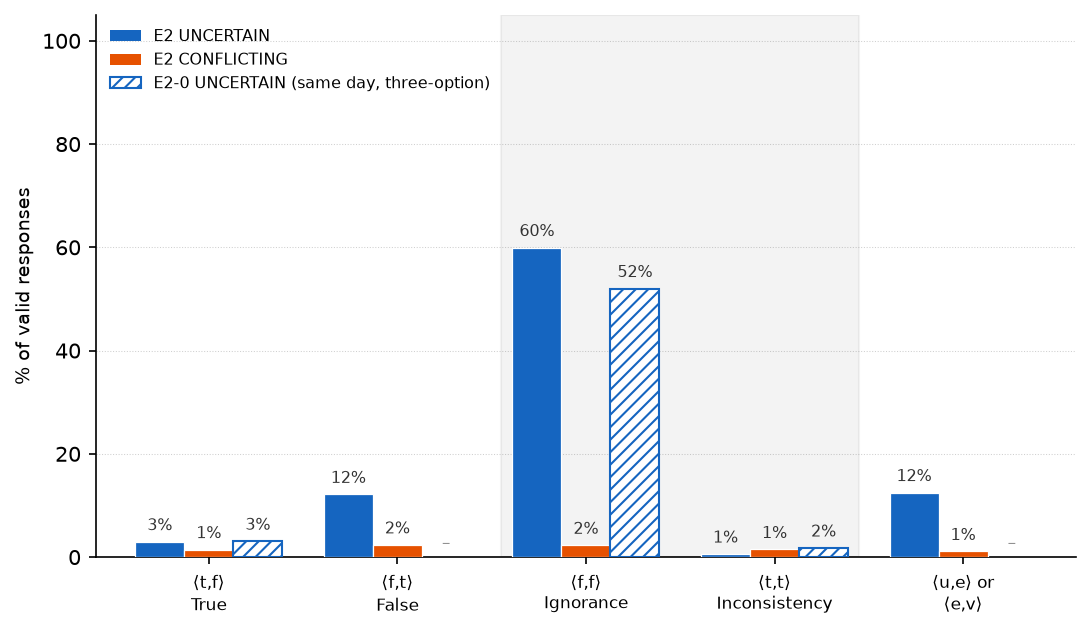
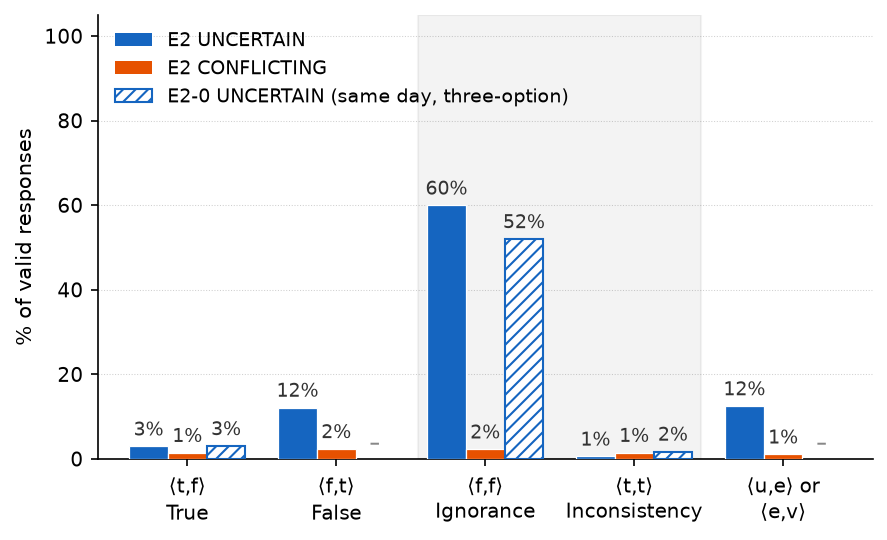
F-3' figure and LNCS fragments: size for LNCS text width; math-mode intervals; column spacing
make_f3prime_figure.py: figure sized 6.0 x 3.7 in with 9-10pt labels so it reads at the LNCS
text width (data and audit JSON unchanged). emit_revision_tables.py: intervals in the paired
rows of the compact E1 table are set in math mode (proper minus sign); explicit column
separation in the E1 and transition fragments.

diff --git a/analysis/emit_revision_tables.py b/analysis/emit_revision_tables.py
@@ -201,7 +201,7 @@ def lncs_e1_persistence() -> None:
         r = rates.get(f"{arm}|{cond}|pooled")
         return "--" if r is None or not r["ci95"] else f"[{r['ci95'][0]:.3f}, {r['ci95'][1]:.3f}]"
 
-    L = [r"\begin{tabular}{ll rrr}", r"\toprule",
+    L = [r"\begin{tabular}{l@{\quad}l@{\qquad}r@{\quad}r@{\quad}r}", r"\toprule",
          r"Original value & Scope & E1-0 & E1-a & E1-b \\", r"\midrule"]
     for cond, lab in (("treatment", TT), ("control_tf", TF), ("control_ff", FF)):
         L.append(f"{lab} & Pooled & " + " & ".join(cell(a, cond, "pooled") for a in arms) + r" \\")
@@ -211,8 +211,8 @@ def lncs_e1_persistence() -> None:
                 L.append(f" & {m} & " + " & ".join(cell(a, cond, m) for a in arms) + r" \\")
         L.append(r"\midrule")
     p1 = e1["P1_E1-0_minus_E1-a_treatment"]["pooled"]; ab = e1["E1-a_minus_E1-b_treatment"]["pooled"]
-    L.append(rf"\multicolumn{{5}}{{l}}{{Paired on {TT} items: E1-0 $-$ E1-a $= {p1['diff']:+.3f}$ {ci(p1['ci95'])} ($n={p1['n_paired']}$)}} \\")
-    L.append(rf"\multicolumn{{5}}{{l}}{{\phantom{{Paired on {TT} items: }}E1-a $-$ E1-b $= {ab['diff']:+.3f}$ {ci(ab['ci95'])} ($n={ab['n_paired']}$)}} \\")
+    L.append(rf"\multicolumn{{5}}{{l}}{{Paired on {TT} items: E1-0 $-$ E1-a $= {p1['diff']:+.3f}$ ${ci(p1['ci95'])}$ ($n={p1['n_paired']}$)}} \\")
+    L.append(rf"\multicolumn{{5}}{{l}}{{\phantom{{Paired on {TT} items: }}E1-a $-$ E1-b $= {ab['diff']:+.3f}$ ${ci(ab['ci95'])}$ ($n={ab['n_paired']}$)}} \\")
     L += [r"\bottomrule", r"\end{tabular}"]
     write_fragment("e1_persistence_tabular.tex", L)
 
@@ -221,7 +221,7 @@ def lncs_transition() -> None:
     """T-TM: where base <t,f> assertions go under box, per model and pooled (percent of row)."""
     tm = json.loads((D / "T-TM_transition_matrix.json").read_text())
     e_cells = ["<t,e>", "<e,t>", "<e,f>", "<f,e>", "<e,e>"]
-    L = [r"\begin{tabular}{l r rrrrr}", r"\toprule",
+    L = [r"\begin{tabular}{l@{\quad}r@{\qquad}r@{\quad}r@{\quad}r@{\quad}r@{\quad}r}", r"\toprule",
          rf"Model & $n$ & {TF} & {FF} & {TT} & {FT} & $\mathfrak{{e}}$-bearing \\", r"\midrule"]
 
     def row(label, d):

diff --git a/analysis/make_f3prime_figure.py b/analysis/make_f3prime_figure.py
@@ -134,7 +134,7 @@ def main() -> None:
     x = np.arange(len(TV_GROUPS))
     w = 0.26
     OUT.parent.mkdir(parents=True, exist_ok=True)
-    fig, ax = plt.subplots(figsize=(7.4, 4.3))
+    fig, ax = plt.subplots(figsize=(6.0, 3.7))   # LNCS text width is ~4.8in
     fig.patch.set_facecolor("white")
 
     style = {"uncertain": dict(color=C_UNCERTAIN),
@@ -146,17 +146,18 @@ def main() -> None:
         for xi, v, g in zip(xs, vals, TV_GROUPS):
             if v is None:
                 if key == "e2-0_uncertain":
-                    ax.text(xi, 1.0, "–", ha="center", va="bottom", fontsize=8, color="#888888")
+                    ax.text(xi, 1.0, "–", ha="center", va="bottom", fontsize=10, color="#888888")
                 continue
             kw = dict(style[key])
             if key != "e2-0_uncertain":
                 kw.update(edgecolor="white", linewidth=0.6)
             ax.bar(xi, v, width=w, zorder=3, **kw)
-            ax.text(xi, v + 1.5, f"{v:.0f}%", ha="center", va="bottom", fontsize=7.5, color=INK)
+            ax.text(xi, v + 1.5, f"{v:.0f}%", ha="center", va="bottom", fontsize=9, color=INK)
 
     ax.set_xticks(x)
-    ax.set_xticklabels([TV_LABELS[g] for g in TV_GROUPS], fontsize=8, linespacing=1.3)
-    ax.set_ylabel("% of valid responses", fontsize=9)
+    ax.set_xticklabels([TV_LABELS[g] for g in TV_GROUPS], fontsize=9.5, linespacing=1.3)
+    ax.tick_params(axis="y", labelsize=9.5)
+    ax.set_ylabel("% of valid responses", fontsize=10)
     ax.set_ylim(0, 105)
     ax.set_xlim(-0.6, len(TV_GROUPS) - 0.4)
     ax.spines["top"].set_visible(False)
@@ -169,7 +170,7 @@ def main() -> None:
     handles = [Patch(facecolor=C_UNCERTAIN, label=SERIES[0][0]),
                Patch(facecolor=C_CONFLICTING, label=SERIES[1][0]),
                Patch(facecolor="white", edgecolor=C_UNCERTAIN, hatch="////", label=SERIES[2][0])]
-    ax.legend(handles=handles, fontsize=7.5, frameon=False, loc="upper left")
+    ax.legend(handles=handles, fontsize=9, frameon=False, loc="upper left")
 
     fig.tight_layout()
     fig.savefig(OUT.with_suffix(".pdf"), bbox_inches="tight", dpi=150)

diff --git a/results/derived/2026_11/tables/lncs/e1_persistence_tabular.tex b/results/derived/2026_11/tables/lncs/e1_persistence_tabular.tex
@@ -1,4 +1,4 @@
-\begin{tabular}{ll rrr}
+\begin{tabular}{l@{\quad}l@{\qquad}r@{\quad}r@{\quad}r}
 \toprule
 Original value & Scope & E1-0 & E1-a & E1-b \\
 \midrule
@@ -16,7 +16,7 @@ $\langle\mathfrak{t},\mathfrak{f}\rangle$ & Pooled & 0.906 (394) & 0.828 (540) &
 $\langle\mathfrak{f},\mathfrak{f}\rangle$ & Pooled & 0.845 (374) & 0.901 (323) & -- \\
  & \quad 95\% CI & [0.771, 0.913] & [0.826, 0.963] & -- \\
 \midrule
-\multicolumn{5}{l}{Paired on $\langle\mathfrak{t},\mathfrak{t}\rangle$ items: E1-0 $-$ E1-a $= +0.587$ [0.433, 0.664] ($n=298$)} \\
-\multicolumn{5}{l}{\phantom{Paired on $\langle\mathfrak{t},\mathfrak{t}\rangle$ items: }E1-a $-$ E1-b $= +0.017$ [-0.004, 0.051] ($n=288$)} \\
+\multicolumn{5}{l}{Paired on $\langle\mathfrak{t},\mathfrak{t}\rangle$ items: E1-0 $-$ E1-a $= +0.587$ $[0.433, 0.664]$ ($n=298$)} \\
+\multicolumn{5}{l}{\phantom{Paired on $\langle\mathfrak{t},\mathfrak{t}\rangle$ items: }E1-a $-$ E1-b $= +0.017$ $[-0.004, 0.051]$ ($n=288$)} \\
 \bottomrule
 \end{tabular}

diff --git a/results/derived/2026_11/tables/lncs/transition_tabular.tex b/results/derived/2026_11/tables/lncs/transition_tabular.tex
@@ -1,4 +1,4 @@
-\begin{tabular}{l r rrrrr}
+\begin{tabular}{l@{\quad}r@{\qquad}r@{\quad}r@{\quad}r@{\quad}r@{\quad}r}
 \toprule
 Model & $n$ & $\langle\mathfrak{t},\mathfrak{f}\rangle$ & $\langle\mathfrak{f},\mathfrak{f}\rangle$ & $\langle\mathfrak{t},\mathfrak{t}\rangle$ & $\langle\mathfrak{f},\mathfrak{t}\rangle$ & $\mathfrak{e}$-bearing \\
 \midrule
